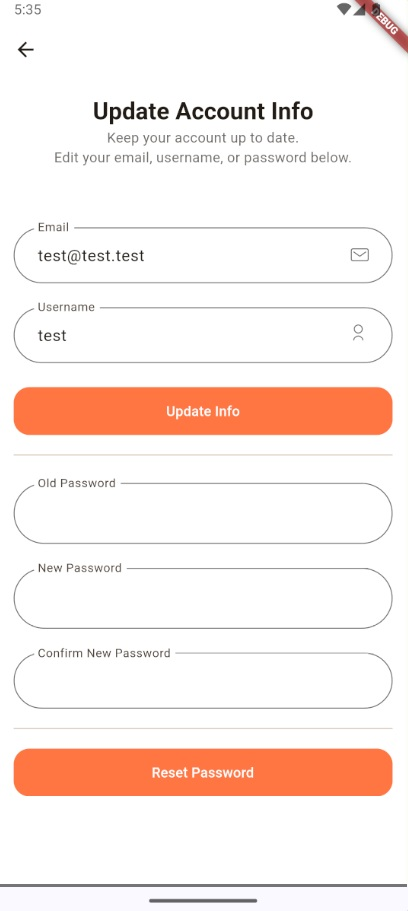
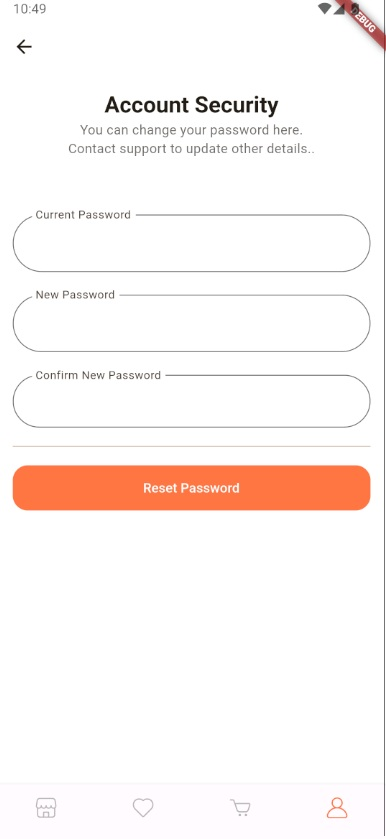
be_fe_16

diff --git a/flutter17_mobile/lib/widgets/account_info.dart b/flutter17_mobile/lib/widgets/account_info.dart
@@ -74,7 +74,7 @@ class _AccountInfoScreenState extends State<AccountInfoScreen> {
           _headline(context),
           _description(context),
           const SizedBox(height: 48),
-          _formBuilder1(context),
+          //_formBuilder1(context),
           _formBuilder2(context),
         ]),
       ),
@@ -277,7 +277,7 @@ class _AccountInfoScreenState extends State<AccountInfoScreen> {
       obscureText: _obscureTextOld,
       decoration: InputDecoration(
           //hintText: "Enter your password",
-          labelText: "Old Password",
+          labelText: "Current Password",
           floatingLabelBehavior: FloatingLabelBehavior.always,
           hintStyle: const TextStyle(color: Color.fromARGB(209, 117, 117, 117)),
           contentPadding: const EdgeInsets.symmetric(
@@ -419,7 +419,7 @@ class _AccountInfoScreenState extends State<AccountInfoScreen> {
 
 Text _description(BuildContext context) {
   return Text(
-    "Keep your account up to date.\nEdit your email, username, or password below.",
+    "You can change your password here.\nContact support to update other details..",
     textAlign: TextAlign.center,
     style: TextStyle(
       color: Theme.of(context).textTheme.bodyLarge!.color!.withOpacity(0.64),
@@ -429,7 +429,7 @@ Text _description(BuildContext context) {
 
 Text _headline(BuildContext context) {
   return Text(
-    "Update Account Info",
+    "Account Security",
     style: Theme.of(context)
         .textTheme
         .headlineSmall!

diff --git a/Electronics_Shop_17.Services/OrderStateMachine/PendingOrderState.cs b/Electronics_Shop_17.Services/OrderStateMachine/PendingOrderState.cs
@@ -70,7 +70,7 @@ namespace Electronics_Shop_17.Services.OrderStateMachine
                 return;
             }
 
-            // Only care about checkout.session.* events
+            
             if (!stripeEvent.Type.StartsWith("checkout.session."))
             {
                 Console.WriteLine("Not a checkout.session event");
@@ -104,7 +104,7 @@ namespace Electronics_Shop_17.Services.OrderStateMachine
 
             Console.WriteLine("Order found: " + order.Id);
 
-            // Parse IDs from JSON (your original logic)
+            
             using var doc = JsonDocument.Parse(json);
             var root = doc.RootElement;
 
@@ -121,7 +121,7 @@ namespace Electronics_Shop_17.Services.OrderStateMachine
                     paymentIntentId = piProp.GetString();
             }
 
-            // SUCCESS
+            
             if (stripeEvent.Type == "checkout.session.completed")
             {
                 order.PaymentId = chargeId;
@@ -132,7 +132,7 @@ namespace Electronics_Shop_17.Services.OrderStateMachine
                 return;
             }
 
-            // ANYTHING ELSE = failed / canceled → Draft
+            
             Console.WriteLine($"Checkout not successful ({stripeEvent.Type}). Returning order to Draft.");
 
             order.StateMachine = "Draft";
@@ -173,29 +173,29 @@ namespace Electronics_Shop_17.Services.OrderStateMachine
             {
                 PaymentMethodTypes = new() { "card" },
                 Mode = "payment",
-                LineItems = new()
-        {
-            new SessionLineItemOptions
-            {
-                PriceData = new SessionLineItemPriceDataOptions
-                {
-                    Currency = "eur",
-                    UnitAmount = (long)(order.FinalTotalAmount * 100),
-                    ProductData = new()
+
+                LineItems = order.OrderItems.Select(item => new SessionLineItemOptions
                     {
-                        Name = $"Order #{order.Id} - {order.OrderItems.Count} items"
+                        Quantity = item.Quantity,
+                        PriceData = new SessionLineItemPriceDataOptions
+                        {
+                            Currency = "eur",
+                            UnitAmount = (long)(item.FinalPrice * 100),
+                            ProductData = new SessionLineItemPriceDataProductDataOptions
+                            {
+                                Name = $"{item.Product.Brand} {item.Product.Model}"
+                            }
+                        }
                     }
-                },
-                Quantity = 1
-            }
-        },
+                ).ToList(),
+
                 SuccessUrl = "https://checkout.stripe.dev/success",
                 CancelUrl = "https://checkout.stripe.dev/cancel",
                 Metadata = new()
-        {
-            { "order_id", order.Id.ToString() },
-            { "cart_id", cartId.ToString() }
-        }
+                {
+                    { "order_id", order.Id.ToString() },
+                    { "cart_id", cartId.ToString() }
+                }
             });
 
             order.PaymentId = session.Id;
@@ -228,7 +228,7 @@ namespace Electronics_Shop_17.Services.OrderStateMachine
         private async Task<(Order order, DtoOrderSuggestion? suggestion)>ValidateAndPrepareOrder(int orderId)
         {
             var order = await _context.Orders
-                .Include(o => o.OrderItems)
+                .Include(o => o.OrderItems).ThenInclude(x=>x.Product)
                 .FirstOrDefaultAsync(o => o.Id == orderId);
 
             if (order == null)
